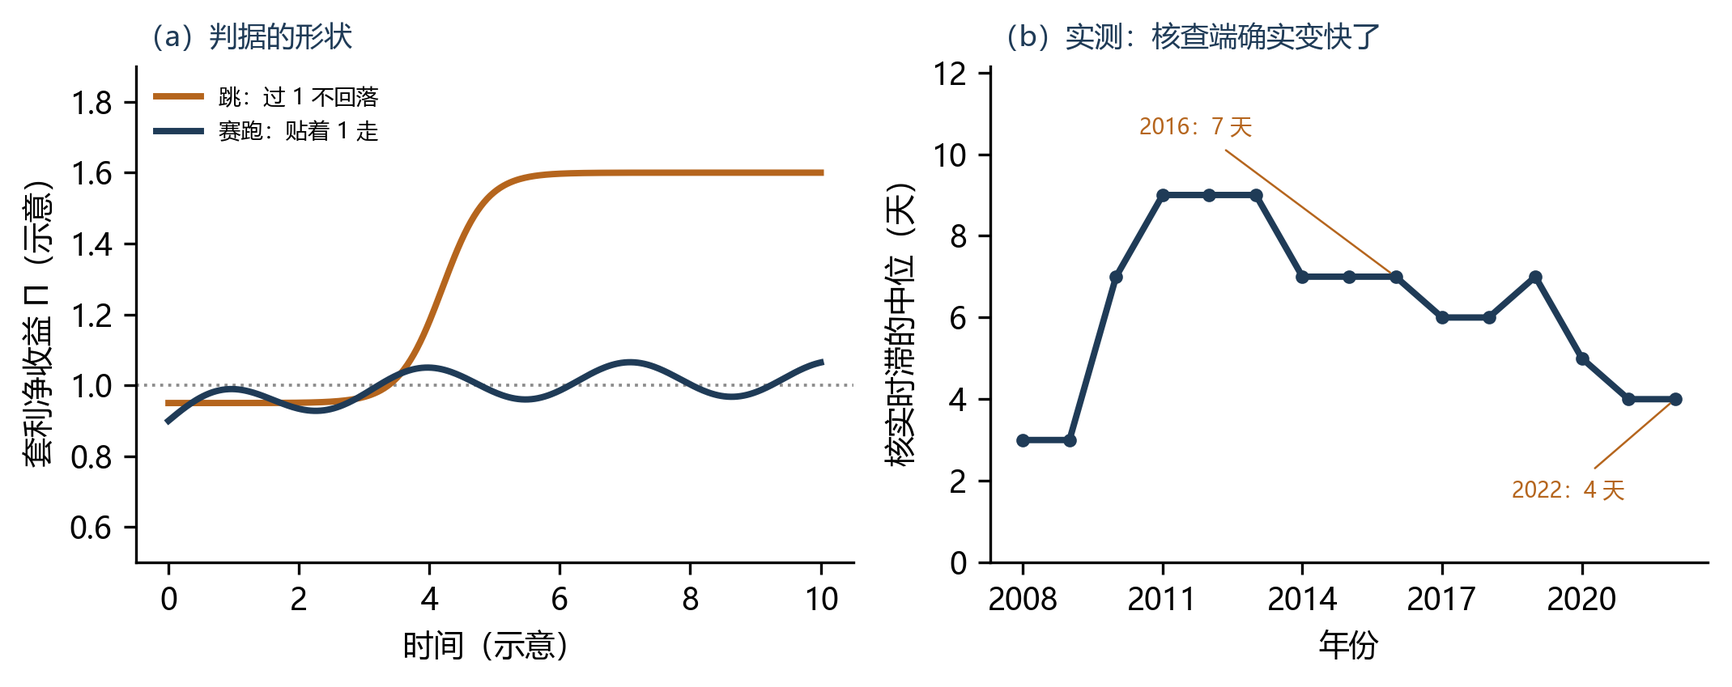
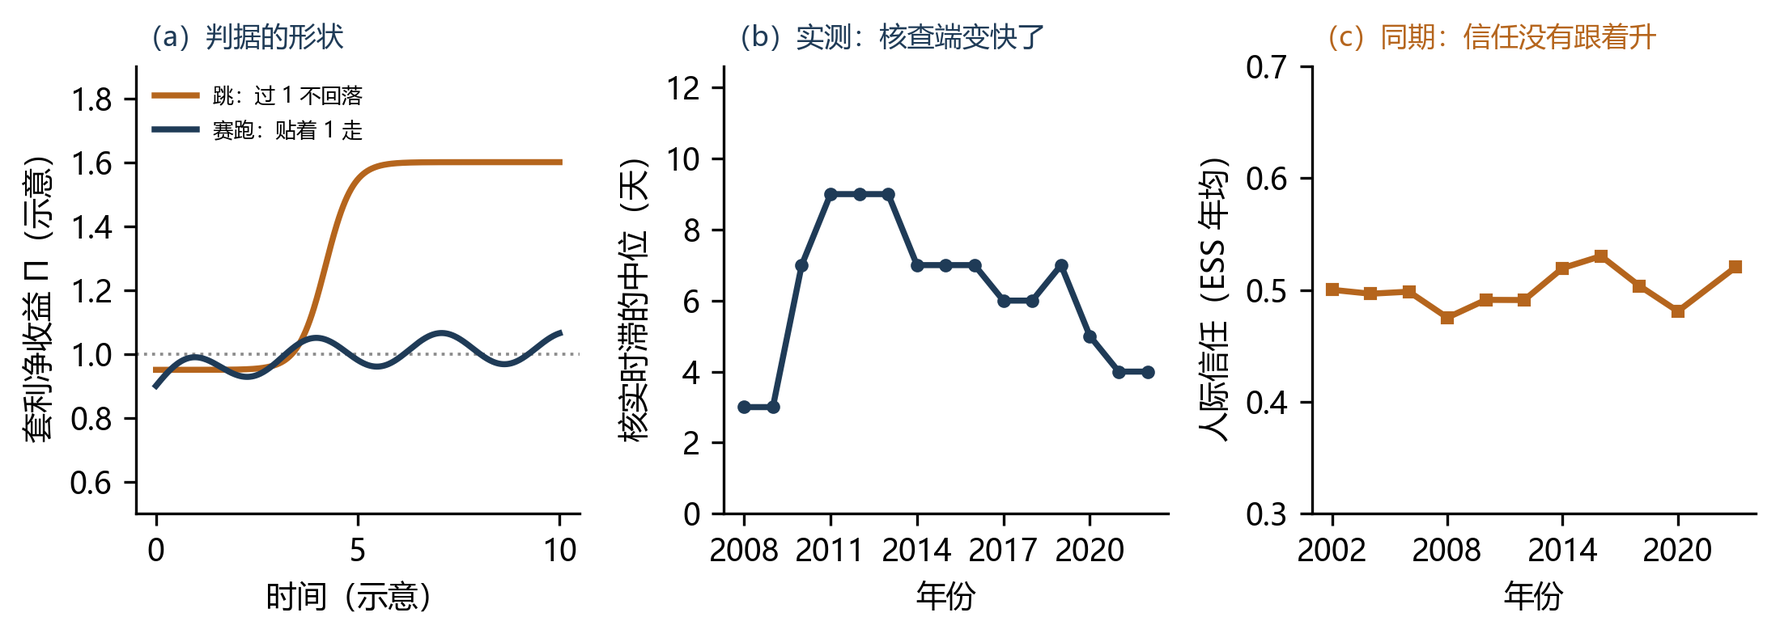
12345 二轮：参数全登记（十四个量）、—的分类、第四遍走查、玩具数据、图19.2三幅、索引85条
参数：表 7.4 十二 → 十四个量（补 p 惩罚概率、ρ 可信叙事供给），全书提法同步
1) 表 7.6 的三十一个“—”分三类：不可直推（β/σ_n/Δ）／可直推但没找到干净动作（奥尔森/阿希/米尔格拉姆）
   ／有候选未核（米制统一→Δ、强制标识→p、教科书审定→γ 的执行者）
2) ch27 走查补第四遍：人权宣言（推第一环没推成，链断在 Φ→ν），配两个可核判据
3) 附录 E.7 配玩具数据 data/derived/dkl_demo.csv（公开/匿名两组计数），算出 D_KL≈0.22 比特、零格子 0
4) 图 19.2 加第三幅：(c) ESS 年均信任 2002—2023 稳定在 0.48—0.53 ⇒ “核实变快 ≠ 追上”
5) 索引 57 → 85 条（补 28 个章名）
读数：正文 252,927 字；119 表／42 图；印刷版 490 页

diff --git a/source/ch07.html b/source/ch07.html
@@ -192,10 +192,10 @@
 </table>
 <div class="datasrc"><b>来源：</b>泛函 <i>F</i>[<i>P</i>] 各参数取极限（附录 A.1—A.4）与本文献对照（`analysis/ANCHORS.md`）。<b>质量等级：</b>C（“退回成谁”是本书的读法；每一格的形式推导须按附录核）。<b>注释：</b>九格退得回去，一格退不回去——<b>而那一格（<i>ν</i> &lt; 0）正是本书唯一敢说“新的”地方。这比“处处都新”的说法更可信，也更好被打。</b>　<b>快照：</b>2026-11-18</div>
 
-<p>这张表还有一个用法，是给读者的：<b>若你不同意本书，最省力的方式不是逐章反驳，是指出某一格“退不回去却不该退不回去”。</b>比如：若有人能证明 <i>γ</i>→∞ 时仍会出现反复换码，那么“锁定＝带宽极限”这一格就错，第 20 章那条带也要改。表 7.3 只排了“有极限可退”的六个；式子里一共有十二个量。把它们一次列全，是因为“参数的适应性”只有在一张表上才看得见：每个量怎么动、拿什么读、一动哪一章跟着动。三栏缺一栏，它只能算一张符号表。</p>
+<p>这张表还有一个用法，是给读者的：<b>若你不同意本书，最省力的方式不是逐章反驳，是指出某一格“退不回去却不该退不回去”。</b>比如：若有人能证明 <i>γ</i>→∞ 时仍会出现反复换码，那么“锁定＝带宽极限”这一格就错，第 20 章那条带也要改。表 7.3 只排了“有极限可退”的六个；式子里一共有十四个量。把它们一次列全，是因为“参数的适应性”只有在一张表上才看得见：每个量怎么动、拿什么读、一动哪一章跟着动。三栏缺一栏，它只能算一张符号表。</p>
 
 <table class="nat">
-<caption class="cap">表7.4　十二个量：取值范围、现实代理、一动哪章、取极限退回谁</caption>
+<caption class="cap">表7.4　十四个量：取值范围、现实代理、一动哪章、取极限退回谁</caption>
 <thead><tr><th>量</th><th>取值范围</th><th>现实代理（拿什么读）</th><th>它一动，哪一章跟着动</th><th>取极限退回谁</th></tr></thead>
 <tbody>
 <tr><td><i>w</i> 错了多疼</td><td>(0, ∞)</td><td>追责条款、署名、扣款、看得见的后果</td><td>3、9、12、27（越疼越细）</td><td><i>w</i>→∞ 极细码；<i>w</i>→0 标签化</td></tr>
@@ -209,12 +209,14 @@
 <tr><td><i>R</i> 码率</td><td>[0, ∞)</td><td>块数的对数 log₂<i>k</i>、类别数、条款数</td><td>6、13、14（<i>δ</i>=<i>Δ</i>/2<sup><i>R</i></sup>）</td><td><i>R</i>→∞ 标准统计决策</td></tr>
 <tr><td><i>Φ</i> 评价权</td><td>[0, 1]</td><td>标准制定席位的集中度；评审出口数</td><td>16、27（链的第一环）</td><td><i>Φ</i>→0 多出口竞争</td></tr>
 <tr><td><i>θ</i> 信任</td><td>(0, 1]</td><td>单题信任序列（波次粒度）</td><td>17、27（末环）</td><td><i>θ</i>→0 只信最粗的格</td></tr>
-<tr><td><i>κ</i> 造假门槛</td><td>[0, 1)</td><td>AI 生成占“谣言类”稿件的比重</td><td>18、19（通过核实时延 <i>τ</i>）</td><td><i>κ</i>→1 验真不可行，只余信任</td></tr>
+<tr><td><i>κ</i> 造假门槛</td><td>[0, 1)</td><td>AI 生成占“谣言类”稿件的比重</td><td>18、19（通过核实时延 <i>τ</i>）</td><td><i>κ</i>→1 验真不可行，只余信任</td></tr><tr><td><i>p</i> 惩罚概率</td><td>[0, 1]</td><td>违规被处置的比例；“处置类词条占全部稿件”的份额</td><td>19（三量之一）</td><td><i>p</i>→0 只靠声誉；<i>p</i>→1 等于全查</td></tr>
+<tr><td><i>ρ</i> 可信叙事供给</td><td>[0, ∞)</td><td>能生产“可信说法”的产能：纠错条数、解释性报道、听证与档案的产出</td><td>19（三量之一）、16（程序型）</td><td><i>ρ</i>→0 只剩标签；<i>ρ</i>→∞ 核查不成瓶颈</td></tr>
+
 </tbody>
 </table>
 <div class="datasrc"><b>来源：</b>式子的符号表（附录 A、表 A.1）与第 3—27 章各自的比较静态；后两列按各章结论归并。<b>质量等级：</b>C（回退方向是推的；代理一列是本书新拟的，没有一份已有量表的授权）。<b>注释：</b>这张表不新增任何证据，它是一张 <b>“参数该去哪找数”的派工单</b>。　<b>快照：</b>2026-11-18</div>
 
-<p><b>先立一条符号约定，免得读到后面串台。</b>十二个量之外还有五个衍生量：<i>F</i><sub>0</sub>（换一次码的一次性成本）、<i>b</i>（每个切点每期都要付的描述费）、<i>z</i>（能看见你偏离的人有多少）、<i>τ</i>（核实延迟）、<i>ζ</i>（套利对社会信任的折损系数，只进第 8 章社会层那一条方程）。另有几个字母容易串台，必须分开读：<i>d</i>* 是可分辨阈值，差到几格才算不一样（A.16／A.18／第 20 章 §20.4），由检查者与编码者的交替最优回应定；<i>d</i>′ 是信号检测论的辨别力（第 8、9 章）。这两个不是一回事：<i>d</i>′ 量“感官与仪器分不分得开这两个刺激”，是实验室里能测的；<i>d</i>* 量“执行端认不认得出这个差别”，是写在 <i>z</i> 方程里的阈值。核实延迟从头到尾只用 <i>τ</i> 一个符号（第 18、19、28 章的同一个量），没有第二个；<i>β</i> 是噪声，不是弹性，弹性在 A.11 记作 <i>ξ</i>；<i>θ</i> 在第 17 章是“把别人的错算进自己账”的权重（＝<i>ν</i> 的正支），不是折现率。合起来只有一句话：同一个符号在两种语境里出现时，看它旁边的单位，不看它的形状。</p>
+<p><b>先立一条符号约定，免得读到后面串台。</b>十四个量之外还有五个衍生量：<i>F</i><sub>0</sub>（换一次码的一次性成本）、<i>b</i>（每个切点每期都要付的描述费）、<i>z</i>（能看见你偏离的人有多少）、<i>τ</i>（核实延迟）、<i>ζ</i>（套利对社会信任的折损系数，只进第 8 章社会层那一条方程）。另有几个字母容易串台，必须分开读：<i>d</i>* 是可分辨阈值，差到几格才算不一样（A.16／A.18／第 20 章 §20.4），由检查者与编码者的交替最优回应定；<i>d</i>′ 是信号检测论的辨别力（第 8、9 章）。这两个不是一回事：<i>d</i>′ 量“感官与仪器分不分得开这两个刺激”，是实验室里能测的；<i>d</i>* 量“执行端认不认得出这个差别”，是写在 <i>z</i> 方程里的阈值。核实延迟从头到尾只用 <i>τ</i> 一个符号（第 18、19、28 章的同一个量），没有第二个；<i>β</i> 是噪声，不是弹性，弹性在 A.11 记作 <i>ξ</i>；<i>θ</i> 在第 17 章是“把别人的错算进自己账”的权重（＝<i>ν</i> 的正支），不是折现率。合起来只有一句话：同一个符号在两种语境里出现时，看它旁边的单位，不看它的形状。</p>
 
 <p><b>三栏里最容易读错的是第三栏。</b>“一动哪一章跟着动”不是“哪一章引用了它”，是“那个量的符号一变，哪一章的结论会反过来”。两回事：全书的章节都引用 <i>w</i>，但真正会被 <i>w</i> 的走向翻掉的，是第 27 章那条链，它靠 <i>w</i> 的下降把“粗”接到“选不准”上。把这两件事混起来，这张表就变成目录，而不是派工单。第二件要说清的：这些量不是平等的“旋钮”。前六个各有自己的式子位置；后六个里有两个（<i>Φ</i>、<i>θ</i>）在本书里只有函数形式、没有估过的值；<i>κ</i> 则是一个读数，而它的分母小得很（谣言类每年只有五十到一百六十篇）。摆在同一张表上，是为了一次看完“哪些能动、哪些只能读”，不是为了假装它们同级。</p>
 
@@ -314,6 +316,16 @@
 <p><b>这张表最容易被读成一种胜利：你看，这么多领域都能挂上。</b>所以先把话说死：<b>并置不是检验。</b>把十几个领域排在一张表上，只证明它们共用一套词汇；要证明它们真在同一条推导链上，得做到三件，找到共享的那个量、找到不共享的那个对照、在事先写下的判决条件下看结果。表里“可推”那几行做到了一半（给了式子与方向）；“可给机制”那几行只做到第一件；“只对应”与“不可验”那几行一件都没做。</p>
 
 <p><b>反过来，这张表也指出了自己会被打掉的地方。</b>若有人证明“分类”与“分期”虽然都能用 <i>δ</i> 写，但它们的 <i>δ</i> 在实证上不随同一个参数动（比如分期对 <i>C</i> 敏感、分类对 <i>C</i> 不敏感），那么“同一套参数”就只在每一门内部成立，不成其为统摄。这是本书的统摄主张唯一能被一次性打掉的地方，写在这里，不让读者去猜。</p>
+
+<p><b>第四列里那三十一个“—”，本身值得一个分类，否则读者会以为是漏填。</b>它们分三种，性质完全不同。</p>
+
+<ul>
+<li><b>一、不可直推的（<i>β</i>、<i>σ</i><sub>n</sub>、<i>Δ</i>）：</b>这些量在历史上从来不是被谁“拧”过的，它们是被别的量带动的——噪声随测量口径变、地板随仪器变、覆盖随人口与地理变。<b>找不到操作者，不是缺口，是这些量没有“操作者”这一格。</b></li>
+<li><b>二、可直推但本书没找到干净动作的（奥尔森的选择性激励、阿希的从众、米尔格拉姆的 150V）：</b>它们显然被人动过（工会、学校、军队），但那些动作同时动了三四个量，分不干净。<b>这一格是本书的活干得不够，不是世上没有。</b></li>
+<li><b>三、有候选但还没核的（三处）：</b>米制统一（只动 <i>Δ</i>、不动 <i>R</i>，第 6 章已当例子用过）；公共卫生的强制标识（只动 <i>p</i>，不动 <i>ρ</i>）；教科书审定（只动 <i>γ</i> 的执行者，不动 <i>w</i>）。<b>三条都缺一份“改版前后同一批人的分类数”的材料</b>——谁能补上这一份，表里就会多三行有操作者的。</li>
+</ul>
+
+<p><b>这三类的区分有一个用处：它把“表里空着”翻译成了“下一步该找什么”。</b>第一类不用找；第二类要找“只动一个量”的自然实验；第三类只要一份前后对比的材料。<b>这也是本书对“缺口”的一贯处理：不是道歉，是分工。</b></p>
 
 <h3 id="sec7-8">7.8　可测边界，与给专家的注</h3>
 

diff --git a/source/ch27.html b/source/ch27.html
@@ -59,7 +59,7 @@
 
 <div class="note"><b>它的反面长什么样：</b>若 <i>Φ</i> 相近而 <i>ν</i> 差一个量级，且这个差无法用其他制度变量解释，那么第一环作废。<b>剩下的结论退回到“一个人怎么分得细”（第 3、9、12 章）——那部分不依赖原理二。</b></div>
 
-<p><b>这条链如果只停在“能画出来”，它还是示意图。它需要一次“走一遍”：一个人或一件事，从头一环走到末一环，每走一步都留下可核的痕迹。</b>下面三次，各走三段，覆盖链条的两端与中段；<b>全部 C 级（本书认为它对得上）</b>，案例取自表 24.6。</p>
+<p><b>这条链如果只停在“能画出来”，它还是示意图。它需要一次“走一遍”：一个人或一件事，从头一环走到末一环，每走一步都留下可核的痕迹。</b>下面四次，各走三段，覆盖链条的两端与中段，外加一次失败；<b>全部 C 级（本书认为它对得上）</b>，案例取自表 24.6。</p>
 
 <p><b>一、科举：从第一环走到第五环（Φ 高 → ν 低 → v 粗 → δ 粗）。</b>第一环：<i>Φ</i> 高到只有一个出口——同一批考官、同一套程文、同一种字体避讳（第 16 章的数：五万生员、每次一千二百名额）。第二环：账被记在考生头上——错一个字，代价是三年；而标准是否偏了，几乎没有人为它负责（<i>ν</i> 低：评价者的错不进评价者的账）。第三环：考生手里的 <i>w</i> 极高（一次考试决定去向），这一格是链条里唯一“往上顶”的一环。第四环：于是分辨率<b>不是全面的粗</b>，而是<b>一边极细、一边为零</b>——在经典文本内部细到截搭题，在文本之外近乎不分（第 16 章）。第五环：<i>δ</i> 在“同一档”里几乎不分——同榜进士的后续表现差异极大，而榜上的名次解释不了它。<b>四环走完，链条的形状出来了：它不是“大家都变粗”，是“粗与细按出口分配”。</b></p>
 
@@ -67,7 +67,9 @@
 
 <p><b>三、曼德拉与 TRC：走末两环（q 与 θ 同时动）。</b>第六环 <i>q</i>（选出来的对不对）与第七环 <i>θ</i>（还信不信）在这一格被一起动：大赦换真相，等于把“谁错”从<b>惩罚</b>移到<b>陈述</b>。用链条的话：<i>ν</i> 没有变低（加害者仍不付刑责），但<b>被外置的那部分损失被公开记账</b>——这是链条上唯一一处“用 <i>ρ</i> 顶替 <i>p</i>”的走法。可核的判据：<b>若听证记录的数量与后续十年的人权诉讼数同时上升，说明“记账”真的发生了；若记录很多而诉讼为零，那只是叙事生产。</b></p>
 
-<p><b>三次走完，链条的用法也就清楚了：它不能预测“哪一年会断”，只能指出“断在哪儿看得出来”。</b>第一环看“评审出口是不是只有一个”，第二环看“错了要不要有人签自己的名字”，第四、五环看“同一档内的差异有多大”。<b>至于“什么时候断”，那是第 20 章的迟滞问题，本书只给带宽 2<i>C</i>，不给日期。</b></p>
+<p><b>四、世界人权宣言：一次“推第一环没推成”的记录（链断在 Φ→ν）。</b>1948 年那份文本想做的事，用链条的话说，是<b>把第一环抬到跨文明的高度</b>：给出一套不依赖某个具体文明的高层标准。但链上第二环需要有人执行 <i>ν</i>（把代价记到谁头上），而这一环没有落地——没有与之配套的 <i>ρ</i>（各文明自己生产“具象转译”的产能）。<b>于是链条断在最可疑的那个接缝上</b>（第 27.2 节排第一的接缝），后面五环一个都没走。可核的判据有两个：<b>各国保留意见的条数</b>（落地的折扣有多大），以及<b>教科书里对它的表述在几十年里怎么变</b>（当 <i>ρ</i> 掉下来时，“西方产物”这类标签替代理解的速度）。<b>这一格的价值不在“它失败了”，在它把“为什么失败”定位到了具体一环</b>：不是文本不好，是第二环与第三环没有配套。</p>
+
+<p><b>四次走完，链条的用法也就清楚了：它不能预测“哪一年会断”，只能指出“断在哪儿看得出来”。</b>第一环看“评审出口是不是只有一个”，第二环看“错了要不要有人签自己的名字”，第四、五环看“同一档内的差异有多大”。<b>至于“什么时候断”，那是第 20 章的迟滞问题，本书只给带宽 2<i>C</i>，不给日期。</b></p>
 
 <h3 id="sec27-3">27.3　第一层：从发送端到接收端</h3>
 

diff --git a/source/ch05.html b/source/ch05.html
@@ -76,7 +76,7 @@
 
 <p><b>把这条链一次走完，只要九步。</b>每一步只做一件事，而且每步都能单独检查，读者可以把这九步当一张体检表，看哪一步是空的。</p>
 
-<p>① 第一性原理：理解＝在给定预算下为世界选一套有限的划分（Sims 2003）。② 原始方程：把这句话写成一个泛函（上面那一行，三项）。③ 两条原理：原理一＝这个泛函要最小化；原理二＝那笔省下来的力气可以记在别人账上。④ 六个标签：P1 借用、P2 定义、P3 群体、P4 换码成本、P5 约定、P6 原理二（A.0 的审计把它们判成“一＋二＋三”）。⑤ 参数：十二个量（表 7.4），另有四个衍生量——<i>F</i><sub>0</sub>（建码一次成本）、<i>b</i>（每个切点的描述费）、<i>z</i>（能把码传出去的人数）、<i>τ</i>（核实延迟）；它们由前十二个合成，不是新的旋钮。⑥ 个人：<i>v</i>* = (<i>T</i>+<i>λ</i>)/(2<i>w</i>)，换码阈值 <i>D</i>&gt;<i>C</i>（A.1、A.5）。⑦ 群体：势博弈与复制子、两码门槛 <i>γz</i>&gt;<i>δ</i>（A.3、A.10）。⑧ 社会：敏感性 <i>χ</i>、带宽 2<i>C</i>、预警信号（第 20 章）。⑨ 文明：词汇的复制子 <i>Q</i><sub><i>t</i>+1</sub> = {…}（A.13），以及只在一条驿道上走通的那组方程（A.7）。</p>
+<p>① 第一性原理：理解＝在给定预算下为世界选一套有限的划分（Sims 2003）。② 原始方程：把这句话写成一个泛函（上面那一行，三项）。③ 两条原理：原理一＝这个泛函要最小化；原理二＝那笔省下来的力气可以记在别人账上。④ 六个标签：P1 借用、P2 定义、P3 群体、P4 换码成本、P5 约定、P6 原理二（A.0 的审计把它们判成“一＋二＋三”）。⑤ 参数：十四个量（表 7.4），另有四个衍生量——<i>F</i><sub>0</sub>（建码一次成本）、<i>b</i>（每个切点的描述费）、<i>z</i>（能把码传出去的人数）、<i>τ</i>（核实延迟）；它们由前十二个合成，不是新的旋钮。⑥ 个人：<i>v</i>* = (<i>T</i>+<i>λ</i>)/(2<i>w</i>)，换码阈值 <i>D</i>&gt;<i>C</i>（A.1、A.5）。⑦ 群体：势博弈与复制子、两码门槛 <i>γz</i>&gt;<i>δ</i>（A.3、A.10）。⑧ 社会：敏感性 <i>χ</i>、带宽 2<i>C</i>、预警信号（第 20 章）。⑨ 文明：词汇的复制子 <i>Q</i><sub><i>t</i>+1</sub> = {…}（A.13），以及只在一条驿道上走通的那组方程（A.7）。</p>
 
 <p><b>九步里哪几步结实、哪几步薄，一次说清。</b>⑤ 与 ⑥、⑦ 最结实：参数有表、个人有闭式、群体有定理。⑧ 半通：四个慢变量都有方程；<i>z</i> 原先“没有方程、只是参数”的那一处，已经补上了一半，<i>z<sub>i</sub></i>(<i>q</i>) = Σ<sub><i>j</i></sub> <i>W<sub>ij</sub></i> · <b>1</b>{|<i>q<sub>i</sub></i> − <i>q<sub>j</sub></i>| ≥ <i>d</i>*}，且 <i>d</i>* 由检查者与编码者的交替最优回应定（A.16、A.18、第 20 章 §20.4；第 26 章表 26.1 第 8 行记的就是这一笔）。仍缺的是联立：<i>z</i> 与 <i>Φ</i>、与两时标（<i>χ</i>、<i>C</i>）之间还没有一组能一起解的式子，这条缺口仍是“群体怎么变成社会”那一处，但它已经从“没有方程”退成“方程不闭合”。⑨ 只到“形式通、内容空”：词汇的复制子能说规模与换代，说不出“下一套词叫什么”（A.13）。而 ①—④ 不在时间上单列，因为它们不是步骤，是地基：地基塌了，上面六步一起塌；地基没塌，六步各自成立。</p>
 

diff --git a/source/ch19.html b/source/ch19.html
@@ -150,7 +150,7 @@
 
 <figure>
 <img src="assets/charts/c19_pi_race.png" alt="套利净收益的两种轨迹：跳与赛跑" style="width:88%">
-<figcaption class="cap"><b>图19.2　判据的形状，与一个实测的对照。</b>（a）式 19.1 的两种轨迹：橙线“跳”（一次越过 1 之后不回落），蓝线“赛跑”（贴着 1 走、斜率≈0）——<b>判别不在水平上，在导数上</b>。（b）一个真实的读数：PolitiFact 21,063 条核实的<b>中位时滞按年</b>（只取每年 ≥300 条的年份），从 2016 年的 7 天降到 2022 年的 4 天。<b>它说明“核查端确实变快了”，但它不是“Π 的轨迹”</b>——<i>Π</i> 依赖攻防两边的存量，本书没有一条序列能把两边分开（第 8.6 节式 8.6）。<b>数据：</b><code>data/derived/tau_politifact.csv</code>（21,063 条，官方数据集，本书只做逐年中位）。<b>质量等级：</b>（a）C（构造曲线，只读形状）；（b）B（公开数据、本书只做计数）。<b>边界声明：</b>（b）的下降也可能来自选题结构变化（后几年偏“可快速核查”的陈述），所以它读作“核查变快”，不读作“追上了”。</figcaption>
+<figcaption class="cap"><b>图19.2　判据的形状，与两个实测的对照。</b>（a）式 19.1 的两种轨迹：橙线“跳”（一次越过 1 之后不回落），蓝线“赛跑”（贴着 1 走、斜率≈0）——<b>判别不在水平上，在导数上</b>。<b>（b）核实时滞在降</b>：PolitiFact 21,063 条的中位时滞，2016 年 7 天 → 2022 年 4 天（只取每年 ≥300 条的年份）。<b>（c）信任没有跟着升</b>：ESS 年均人际信任，2002—2023 年一直在 0.48—0.53 之间。<b>两幅并排要说明的只有一句：核实变快，不等于追上了</b>——若“追上”成立，第六环与第七环应当同向动；这里只有第六环动。<b>数据：</b>（b）<code>data/derived/tau_politifact.csv</code>；（c）<code>data/derived/ess_country_round.csv</code>。<b>质量等级：</b>（a）C（构造曲线，只读形状）；（b）（c）B（公开数据、本书只做计数与年均）。<b>边界声明：</b>（b）是美国事实核查样本、（c）是欧洲社会调查，<b>两边不是同一批人</b>，所以这两幅只能读“没有同步”，不能读“因果”；另外 <i>Π</i> 本身不可测（第 8.6 节式 8.6），图里没有它。</figcaption>
 </figure>
 
 

diff --git a/source/appendix_e.html b/source/appendix_e.html
@@ -103,6 +103,8 @@ def dkl(a, k, alpha=0.5, B=2000, seed=0):
         bs.append(float(np.sum(ai * np.log(ai / ki))))
     return d, (float(np.percentile(bs, 2.5)), float(np.percentile(bs, 97.5))), empty</pre>
 
+<p><b>一份玩具数据，跑一遍就有数。</b><code>data/derived/dkl_demo.csv</code> 是同一套六类题在两种条件下的计数（公开 200 次、匿名 200 次；公开那一侧偏向“安全的大类”，匿名那一侧更散）。把它喂进上面那个函数，得到 <b><i>D</i><sub>KL</sub> ≈ 0.22 比特</b>，零格子 0 个——这个数没有实证含义（数据是构造的），它只证明两件事：<b>这个量能算出来，而且能报出“算得靠不靠得住”的那个附注。</b></p>
+
 <p><b>四个坑。</b>① <b>零格子</b>：类别越多、样本越小，零越多；零一多，散度就没意义，先报零格数。② <b>轴要对齐</b>：两条件必须用同一套类别，否则量的是“分类不同”不是“表现不同”。③ <b>样本量</b>：每类中位数 ≥5 才勉强；不够就把尾类并掉，并报并了多少。④ <b>它不告诉你“为什么”</b>：散度大可以是 <i>γ</i> 高（怕被罚），也可以是题目难度不同（选择效应），这两件要用第 11 章那条“只动一样”的操纵分开。</p>
 
 <p><b>否证线。</b>若同一批人在“实名／匿名”之间随机切换（同一天内、同一套题、切换顺序随机），散度仍显著大于零，那“散度来自 <i>γ</i>”这条要降级——因为它可能是题目本身的随机性。<b>指针：</b>定义在正文第 13 章，读法与两个边界也在那里；这一节只给可跑的形状。</p>

diff --git a/source/front_roadmap.html b/source/front_roadmap.html
@@ -18,6 +18,6 @@
 
 <p><b>一条主线，四个转手。</b>第 3 章给出式子；第 6 章把它变成一个约束（一份预算两个出口）；第 16 章把它接上群体（一致性代价）；第 20 章把它接上时间（迟滞）。<b>其余各章都是这条主线的应用或设限。</b></p>
 
-<p><b>两张查表，先给位置。</b>表 7.4（十二个量：取值范围、现实代理、一动哪章、取极限退回谁）与表 7.5（十四个领域：用哪条原理、哪个接触面、验到哪一步）都在 7.7 末。<b>这两张表是给“回头查”用的，不是给“顺着读”用的</b>——读到时不必记住，只要记得它们在哪。</p>
+<p><b>两张查表，先给位置。</b>表 7.4（十四个量：取值范围、现实代理、一动哪章、取极限退回谁）与表 7.5（十四个领域：用哪条原理、哪个接触面、验到哪一步）都在 7.7 末。<b>这两张表是给“回头查”用的，不是给“顺着读”用的</b>——读到时不必记住，只要记得它们在哪。</p>
 
 <p><b>一处刻意的安排。</b>第 8 章（它推不出的三件事）放在第一部分之后、第三部分之前，而不是书末。理由是：<b>后面每一章都要用这套工具，读者有权在使用之前就知道它的承重。</b></p>

diff --git a/analysis/make_figures_body.py b/analysis/make_figures_body.py
@@ -845,34 +845,27 @@ if __name__ == "__main__":
 
 # ---------------------------------------------------------------- 第 19 章（2026-11-18 补）
 def fig_c19_pi() -> None:
-    """跳／赛跑（左，构造）＋核实时滞逐年（右，实测）。
-
-    右幅数据：data/derived/tau_politifact.csv（21,063 条；取 0<lag<=365），按年份算中位。
-    边界：右幅只说明“核查端变快了”，不说明“追上了”——后者要看攻防存量，本书没有序列。
-    """
+    """(a) 跳／赛跑的构造形状；(b) 核实时滞逐年（实测）；(c) 同期信任（ESS，实测）。"""
     import csv
     import statistics as st
     from collections import defaultdict
 
-    fig, (ax1, ax2) = plt.subplots(1, 2, figsize=(7.2, 2.9))
+    fig, (ax1, ax2, ax3) = plt.subplots(1, 3, figsize=(7.4, 2.7))
 
-    # 左：两条构造轨迹
     t = np.linspace(0, 10, 400)
     jump = 0.95 + 0.65 / (1 + np.exp(-(t - 4.2) * 3.0))
     race = 1.02 + 0.05 * np.sin(t * 2.0) - 0.12 * np.exp(-t / 2.2)
     ax1.axhline(1.0, color=C_GREY, lw=0.9, ls=":")
-    ax1.plot(t, jump, color=C_ALT, lw=1.9, label="跳：过 1 不回落")
-    ax1.plot(t, race, color=C_MAIN, lw=1.9, label="赛跑：贴着 1 走")
+    ax1.plot(t, jump, color=C_ALT, lw=1.8, label="跳：过 1 不回落")
+    ax1.plot(t, race, color=C_MAIN, lw=1.8, label="赛跑：贴着 1 走")
     ax1.set_xlabel("时间（示意）")
     ax1.set_ylabel("套利净收益 Π（示意）")
     ax1.set_ylim(0.5, 1.9)
-    ax1.legend(fontsize=6.6, frameon=False, loc="upper left")
-    ax1.set_title("（a）判据的形状", fontsize=8.5, color=C_MAIN, loc="left")
+    ax1.legend(fontsize=6.2, frameon=False, loc="upper left")
+    ax1.set_title("（a）判据的形状", fontsize=8.2, color=C_MAIN, loc="left")
 
-    # 右：实测核实时滞（中位／年）
     by = defaultdict(list)
-    path = ROOT / "data" / "derived" / "tau_politifact.csv"
-    with open(path, encoding="utf-8") as fh:
+    with open(ROOT / "data" / "derived" / "tau_politifact.csv", encoding="utf-8") as fh:
         for r in csv.DictReader(fh):
             try:
                 y, lag = int(r["year"]), float(r["lag_days"])
@@ -882,17 +875,30 @@ def fig_c19_pi() -> None:
                 by[y].append(lag)
     years = sorted(y for y in by if len(by[y]) >= 300)
     med = [st.median(by[y]) for y in years]
-    ax2.plot(years, med, color=C_MAIN, lw=1.9, marker="o", ms=3)
+    ax2.plot(years, med, color=C_MAIN, lw=1.8, marker="o", ms=3)
     ax2.set_ylabel("核实时滞的中位（天）")
     ax2.set_xlabel("年份")
-    ax2.set_ylim(0, max(med) * 1.35)
-    ax2.set_title("（b）实测：核查端确实变快了", fontsize=8.5, color=C_MAIN, loc="left")
-    ax2.annotate("2016：7 天", xy=(2016, 7), xytext=(2010.5, 10.5), fontsize=6.4, color=C_ALT,
-                 arrowprops=dict(arrowstyle="-", lw=0.6, color=C_ALT))
-    ax2.annotate("2022：4 天", xy=(2022, 4), xytext=(2018.5, 1.6), fontsize=6.4, color=C_ALT,
-                 arrowprops=dict(arrowstyle="-", lw=0.6, color=C_ALT))
-
+    ax2.set_ylim(0, max(med) * 1.4)
     ax2.set_xticks(years[::3])
     ax2.set_xticklabels([str(y) for y in years[::3]])
+    ax2.set_title("（b）实测：核查端变快了", fontsize=8.2, color=C_MAIN, loc="left")
+
+    th = defaultdict(list)
+    with open(ROOT / "data" / "derived" / "ess_country_round.csv", encoding="utf-8") as fh:
+        for r in csv.DictReader(fh):
+            try:
+                th[int(r["year"])].append(float(r["E"]))
+            except Exception:
+                continue
+    ys = sorted(th)
+    mv = [st.mean(th[y]) for y in ys]
+    ax3.plot(ys, mv, color=C_ALT, lw=1.8, marker="s", ms=3)
+    ax3.set_ylabel("人际信任（ESS 年均）")
+    ax3.set_xlabel("年份")
+    ax3.set_ylim(0.3, 0.7)
+    ax3.set_xticks(ys[::3])
+    ax3.set_xticklabels([str(y) for y in ys[::3]])
+    ax3.set_title("（c）同期：信任没有跟着升", fontsize=8.2, color=C_ALT, loc="left")
+
     fig.tight_layout()
     save(fig, "c19_pi_race")
